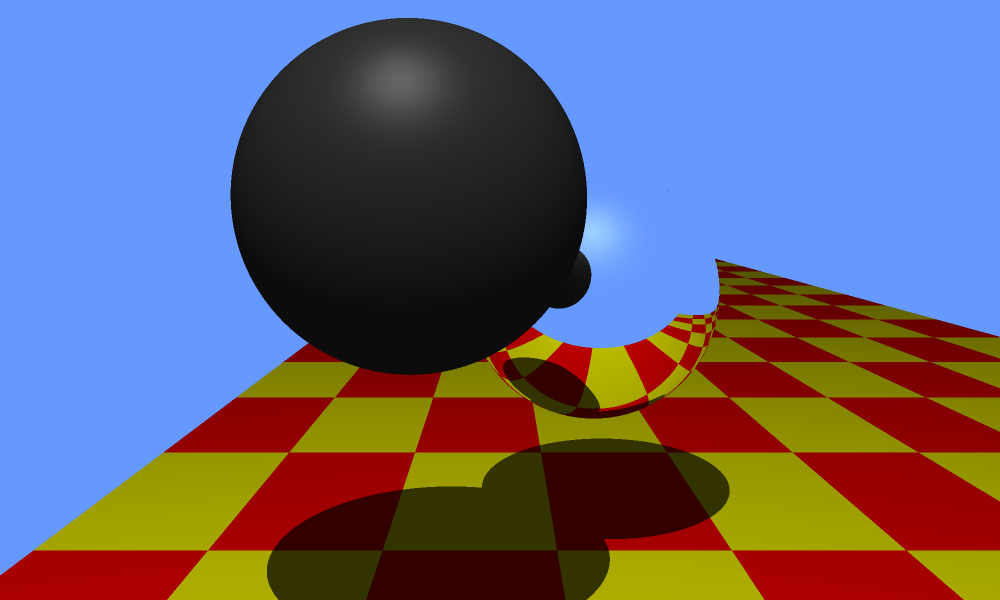
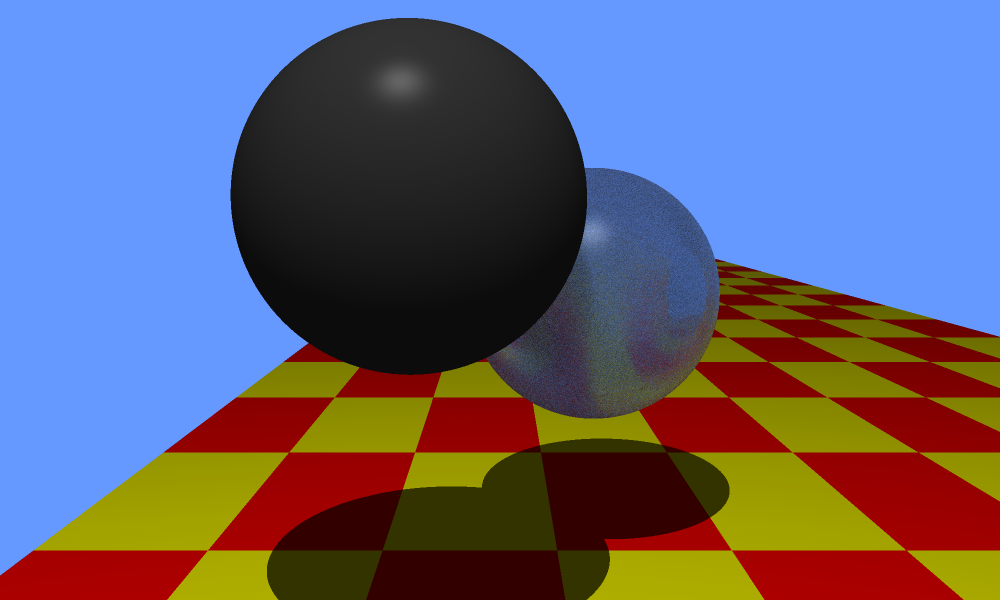
In progress phong brdf for reflection

Changed region(s): [[0.465, 0.27, 0.744, 0.72]]

diff --git a/raytracer/src/world/camera.rs b/raytracer/src/world/camera.rs
@@ -1,11 +1,16 @@
-use glam::{Mat4, Vec3};
+use std::{f32::consts::PI, ops::DerefMut};
+
+use glam::{Mat4, Vec2, Vec3};
 use image::{ImageBuffer, RgbImage};
+use rand::{RngExt, rng};
 
 use crate::{
     lighting::{
         illumination::{
-            IlluminationModel, IlluminationType, ashikhmin_shirley::AshikhminShirley, phong::Phong,
-            phong_blinn::PhongBlinn,
+            IlluminationModel, IlluminationType,
+            ashikhmin_shirley::AshikhminShirley,
+            phong::Phong,
+            phong_blinn::{self, PhongBlinn},
         },
         ray::Ray,
     },
@@ -148,6 +153,8 @@ impl Camera {
         let mut total_light =
             ill_model.illuminate(world, &int, self.position, &self.view_transform);
 
+        let mut rng = rng();
+
         if depth < int.object.get_max_depth() {
             let kr = int.object.get_kr();
             let kt = int.object.get_kt();
@@ -156,11 +163,51 @@ impl Camera {
             let angle = v_i.dot(int.normal);
 
             if kr > 0.0 {
-                let reflected = v_i - 2.0 * angle / int.normal.length().powi(2) * int.normal;
-                let offset = reflected.normalize() * 0.001;
-                let refl_ray = Ray::new(int.intersection_point + offset, reflected.normalize());
+                let num_rays = 8;
+                let perfect_reflection =
+                    v_i - 2.0 * angle / int.normal.length().powi(2) * int.normal;
 
-                total_light += kr * self.illuminate(refl_ray, depth + 1, world, ill_model);
+                let mut n = 1.0;
+                let mut kd = 0.6;
+                let mut ks = 0.2;
+
+                if let Some(phong) = ill_model.as_any().downcast_mut::<Phong>() {
+                    n = phong.get_ke();
+                    kd = phong.get_kd();
+                    ks = phong.get_ks();
+                } else if let Some(phong_blinn) = ill_model.as_any().downcast_mut::<PhongBlinn>() {
+                    n = phong_blinn.get_ke();
+                    kd = phong_blinn.get_kd();
+                    ks = phong_blinn.get_ks();
+                }
+
+                for _ in 0..num_rays {
+                    let refl_type: f32 = rng.random();
+
+                    if refl_type > kd + ks {
+                        continue;
+                    }
+
+                    let u1: f32 = rng.random();
+                    let u2: f32 = rng.random();
+
+                    let polar: Vec2;
+
+                    if refl_type < kd {
+                        // diffuse
+                        polar = Vec2::new(u1.sqrt().acos(), 2.0 * PI * u2);
+                    } else {
+                        // specular
+                        polar = Vec2::new(u1.powf(1.0 / (n + 1.0)).acos(), 2.0 * PI * u2);
+                    }
+
+                    let dir = Vec3::new(0.0, 0.0, 0.0);
+
+                    let offset = dir * 0.001;
+                    let refl_ray = Ray::new(int.intersection_point + offset, dir);
+
+                    total_light += kr * self.illuminate(refl_ray, depth + 1, world, ill_model);
+                }
             }
 
             if kt > 0.0 {

diff --git a/raytracer/src/lighting/illumination/phong_blinn.rs b/raytracer/src/lighting/illumination/phong_blinn.rs
@@ -1,9 +1,7 @@
 use glam::{Mat4, Vec3};
 
 use crate::{
-    geometry::intersection::Intersection,
-    lighting::{illumination::IlluminationModel, ray::Ray},
-    world::World,
+    geometry::intersection::Intersection, lighting::illumination::IlluminationModel, world::World,
 };
 
 pub struct PhongBlinn {
@@ -16,6 +14,18 @@ pub struct PhongBlinn {
 impl PhongBlinn {
     pub fn new(ka: f32, kd: f32, ks: f32, ke: f32) -> Self {
         Self { ka, kd, ks, ke }
+    }
+
+    pub fn get_ke(&self) -> f32 {
+        self.ke
+    }
+
+    pub fn get_kd(&self) -> f32 {
+        self.ks
+    }
+
+    pub fn get_ks(&self) -> f32 {
+        self.kd
     }
 }
 
@@ -104,5 +114,9 @@ impl IlluminationModel for PhongBlinn {
         radiance += specular;
 
         radiance
+    }
+
+    fn as_any(&mut self) -> &mut dyn std::any::Any {
+        self
     }
 }

diff --git a/raytracer/src/main.rs b/raytracer/src/main.rs
@@ -49,7 +49,7 @@ fn main() {
     world.objects_to_view_space(camera.get_view_transform());
     world.lights_to_view_space(camera.get_view_transform());
 
-    camera.render(&world, IlluminationType::PhongBlinn);
+    camera.render(&world, IlluminationType::Phong);
 }
 
 fn create_camera() -> Camera {
@@ -158,7 +158,7 @@ fn create_spheres() -> (Sphere, Sphere) {
     let sphere_1_material = FlatMaterial::new(sphere_1_color, spec_color, 0.0, 0.0, 1);
 
     let sphere_2_color = Vec3::new(0.0, 0.0, 0.0);
-    let sphere_2_material = FlatMaterial::new(sphere_2_color, spec_color, 1.0, 0.0, 4);
+    let sphere_2_material = FlatMaterial::new(sphere_2_color, spec_color, 0.1, 0.0, 4);
 
     let sphere_radius = 2.0;
 

diff --git a/raytracer/src/lighting/illumination/phong.rs b/raytracer/src/lighting/illumination/phong.rs
@@ -15,6 +15,18 @@ impl Phong {
     pub fn new(ka: f32, kd: f32, ks: f32, ke: f32) -> Self {
         Self { ka, kd, ks, ke }
     }
+
+    pub fn get_ke(&self) -> f32 {
+        self.ke
+    }
+
+    pub fn get_kd(&self) -> f32 {
+        self.ks
+    }
+
+    pub fn get_ks(&self) -> f32 {
+        self.kd
+    }
 }
 
 impl IlluminationModel for Phong {
@@ -102,5 +114,9 @@ impl IlluminationModel for Phong {
         radiance += specular;
 
         radiance
+    }
+
+    fn as_any(&mut self) -> &mut dyn std::any::Any {
+        self
     }
 }

diff --git a/raytracer/src/lighting/illumination/mod.rs b/raytracer/src/lighting/illumination/mod.rs
@@ -1,3 +1,5 @@
+use std::any::Any;
+
 use glam::{Mat4, Vec3};
 
 use crate::{geometry::intersection::Intersection, world::World};
@@ -12,7 +14,7 @@ pub enum IlluminationType {
     AshikhminShirley,
 }
 
-pub trait IlluminationModel {
+pub trait IlluminationModel: Any {
     fn illuminate(
         &mut self,
         world: &World,
@@ -20,4 +22,6 @@ pub trait IlluminationModel {
         cam_pos: Vec3,
         view_transform: &Mat4,
     ) -> Vec3;
+
+    fn as_any(&mut self) -> &mut dyn Any;
 }

diff --git a/raytracer/src/lighting/illumination/ashikhmin_shirley.rs b/raytracer/src/lighting/illumination/ashikhmin_shirley.rs
@@ -128,4 +128,8 @@ impl IlluminationModel for AshikhminShirley {
 
         radiance
     }
+
+    fn as_any(&mut self) -> &mut dyn std::any::Any {
+        self
+    }
 }
